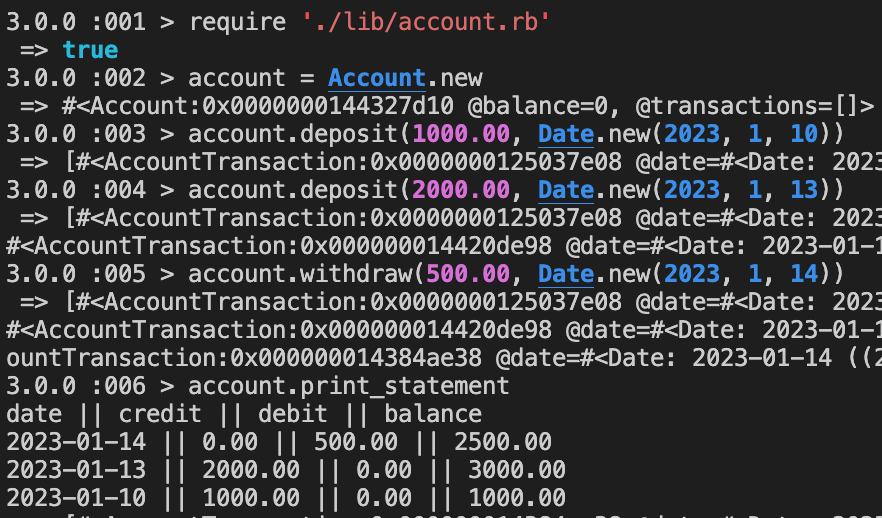
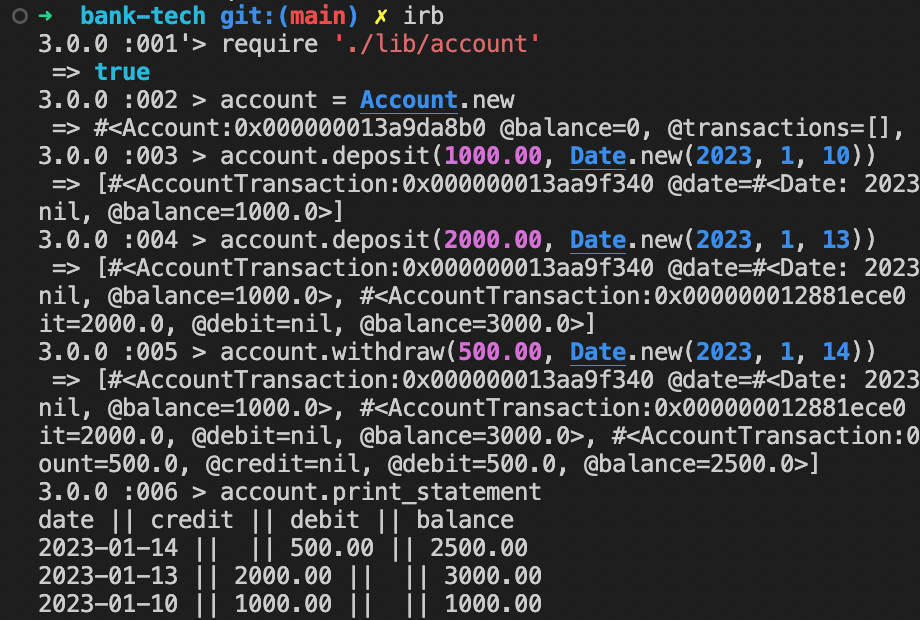
added image.png

diff --git a/README.md b/README.md
@@ -95,4 +95,4 @@ end
 ```
 
 ## 3. IRB 
-![Alt text](https://file%252B.vscode-resource.vscode-cdn.net/Users/khuslenganzorig/Desktop/Screenshot%25202023-07-19%2520at%252010.48.13.png?version%253D1689762676336)
+![Image of IRB](image.png)
